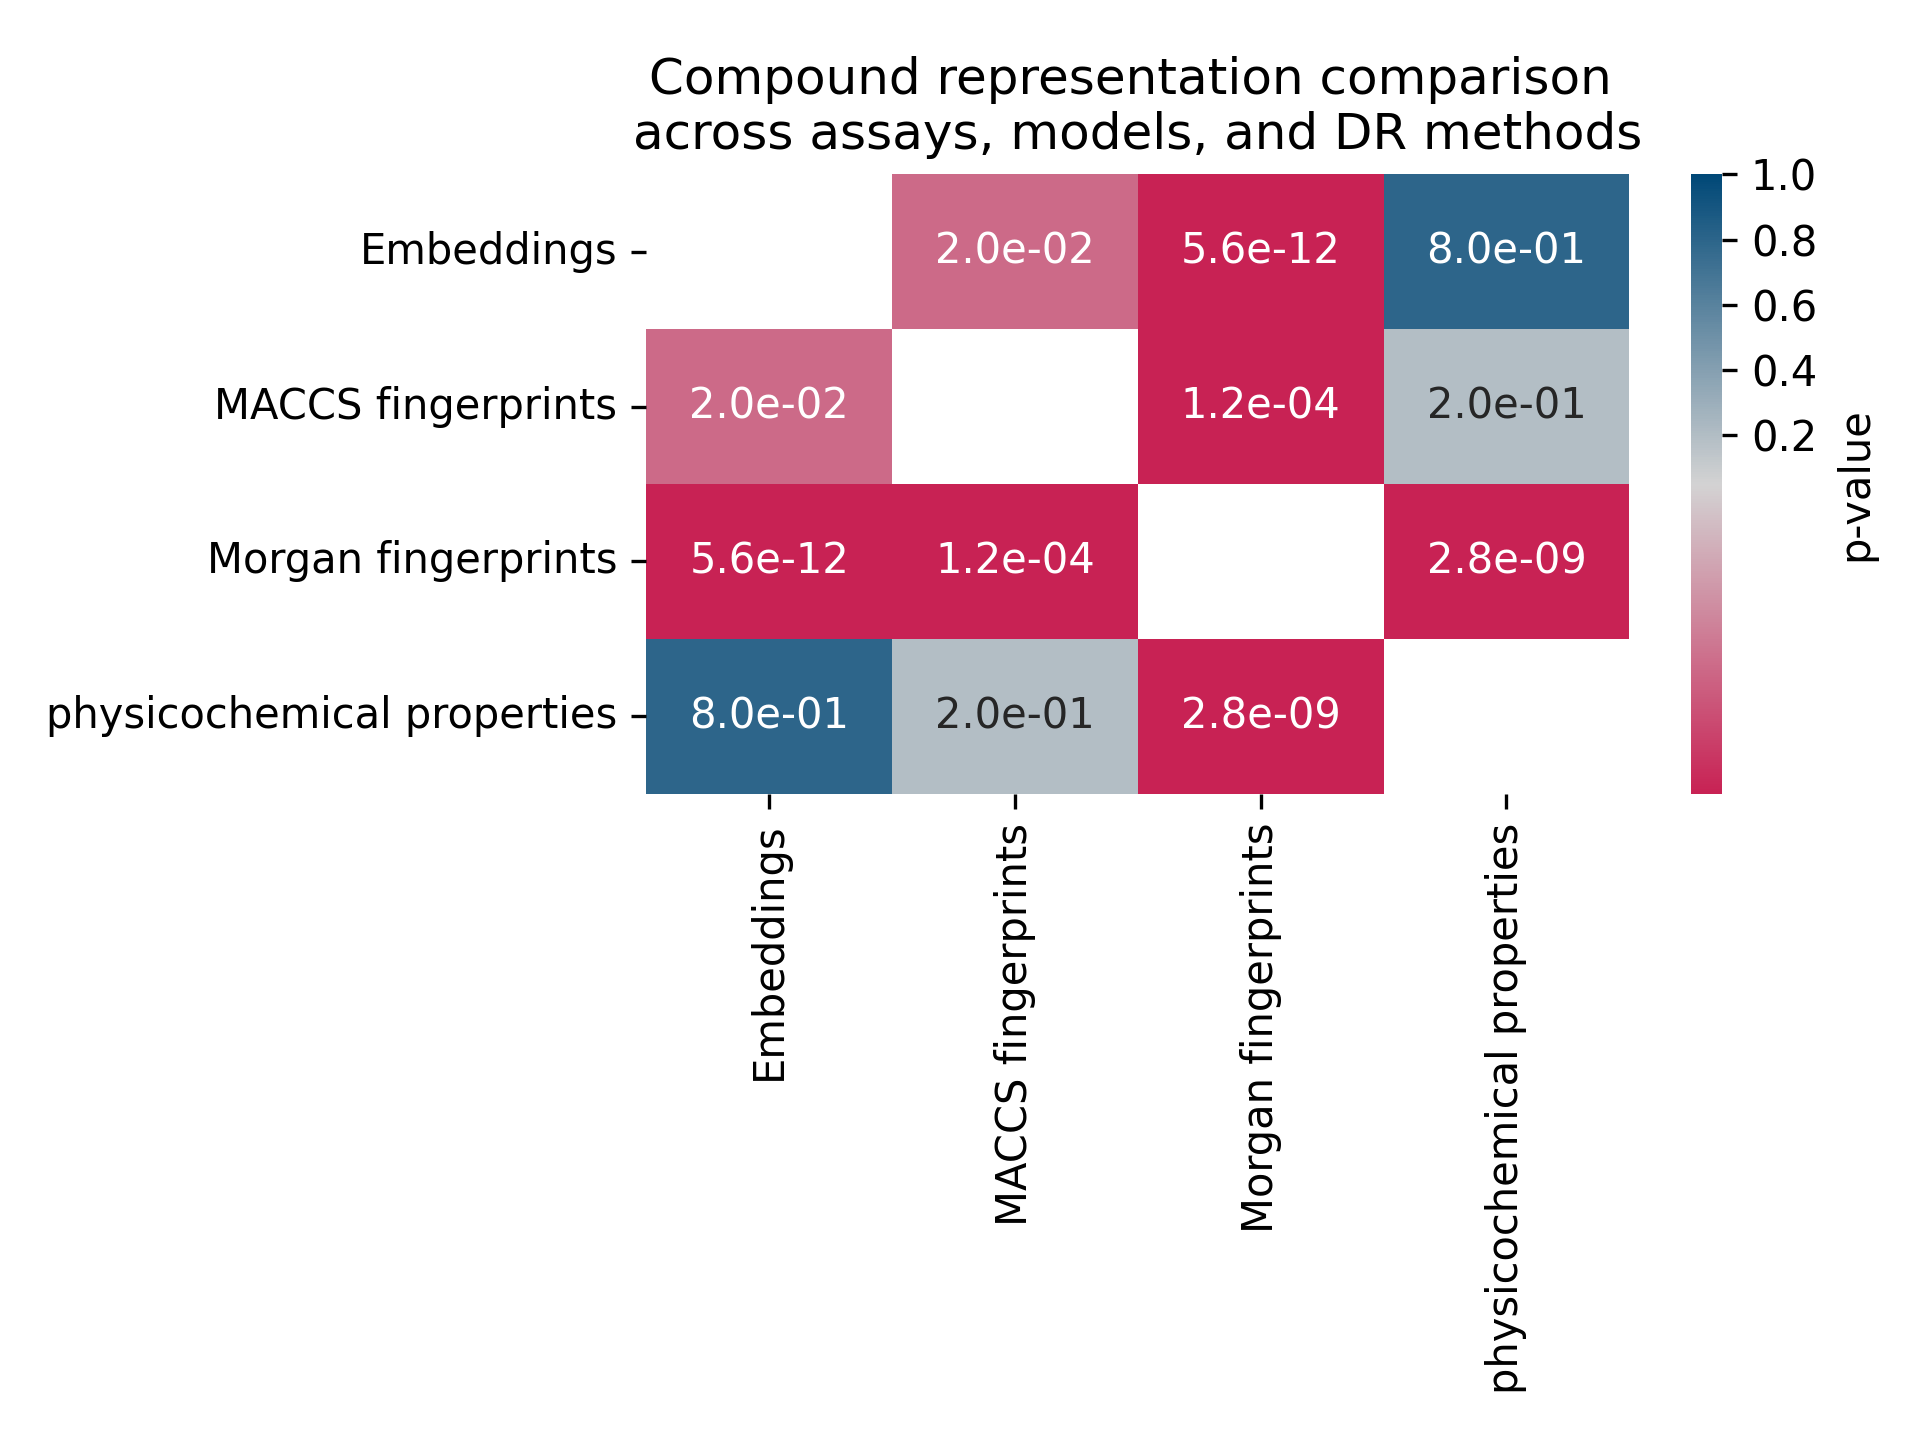
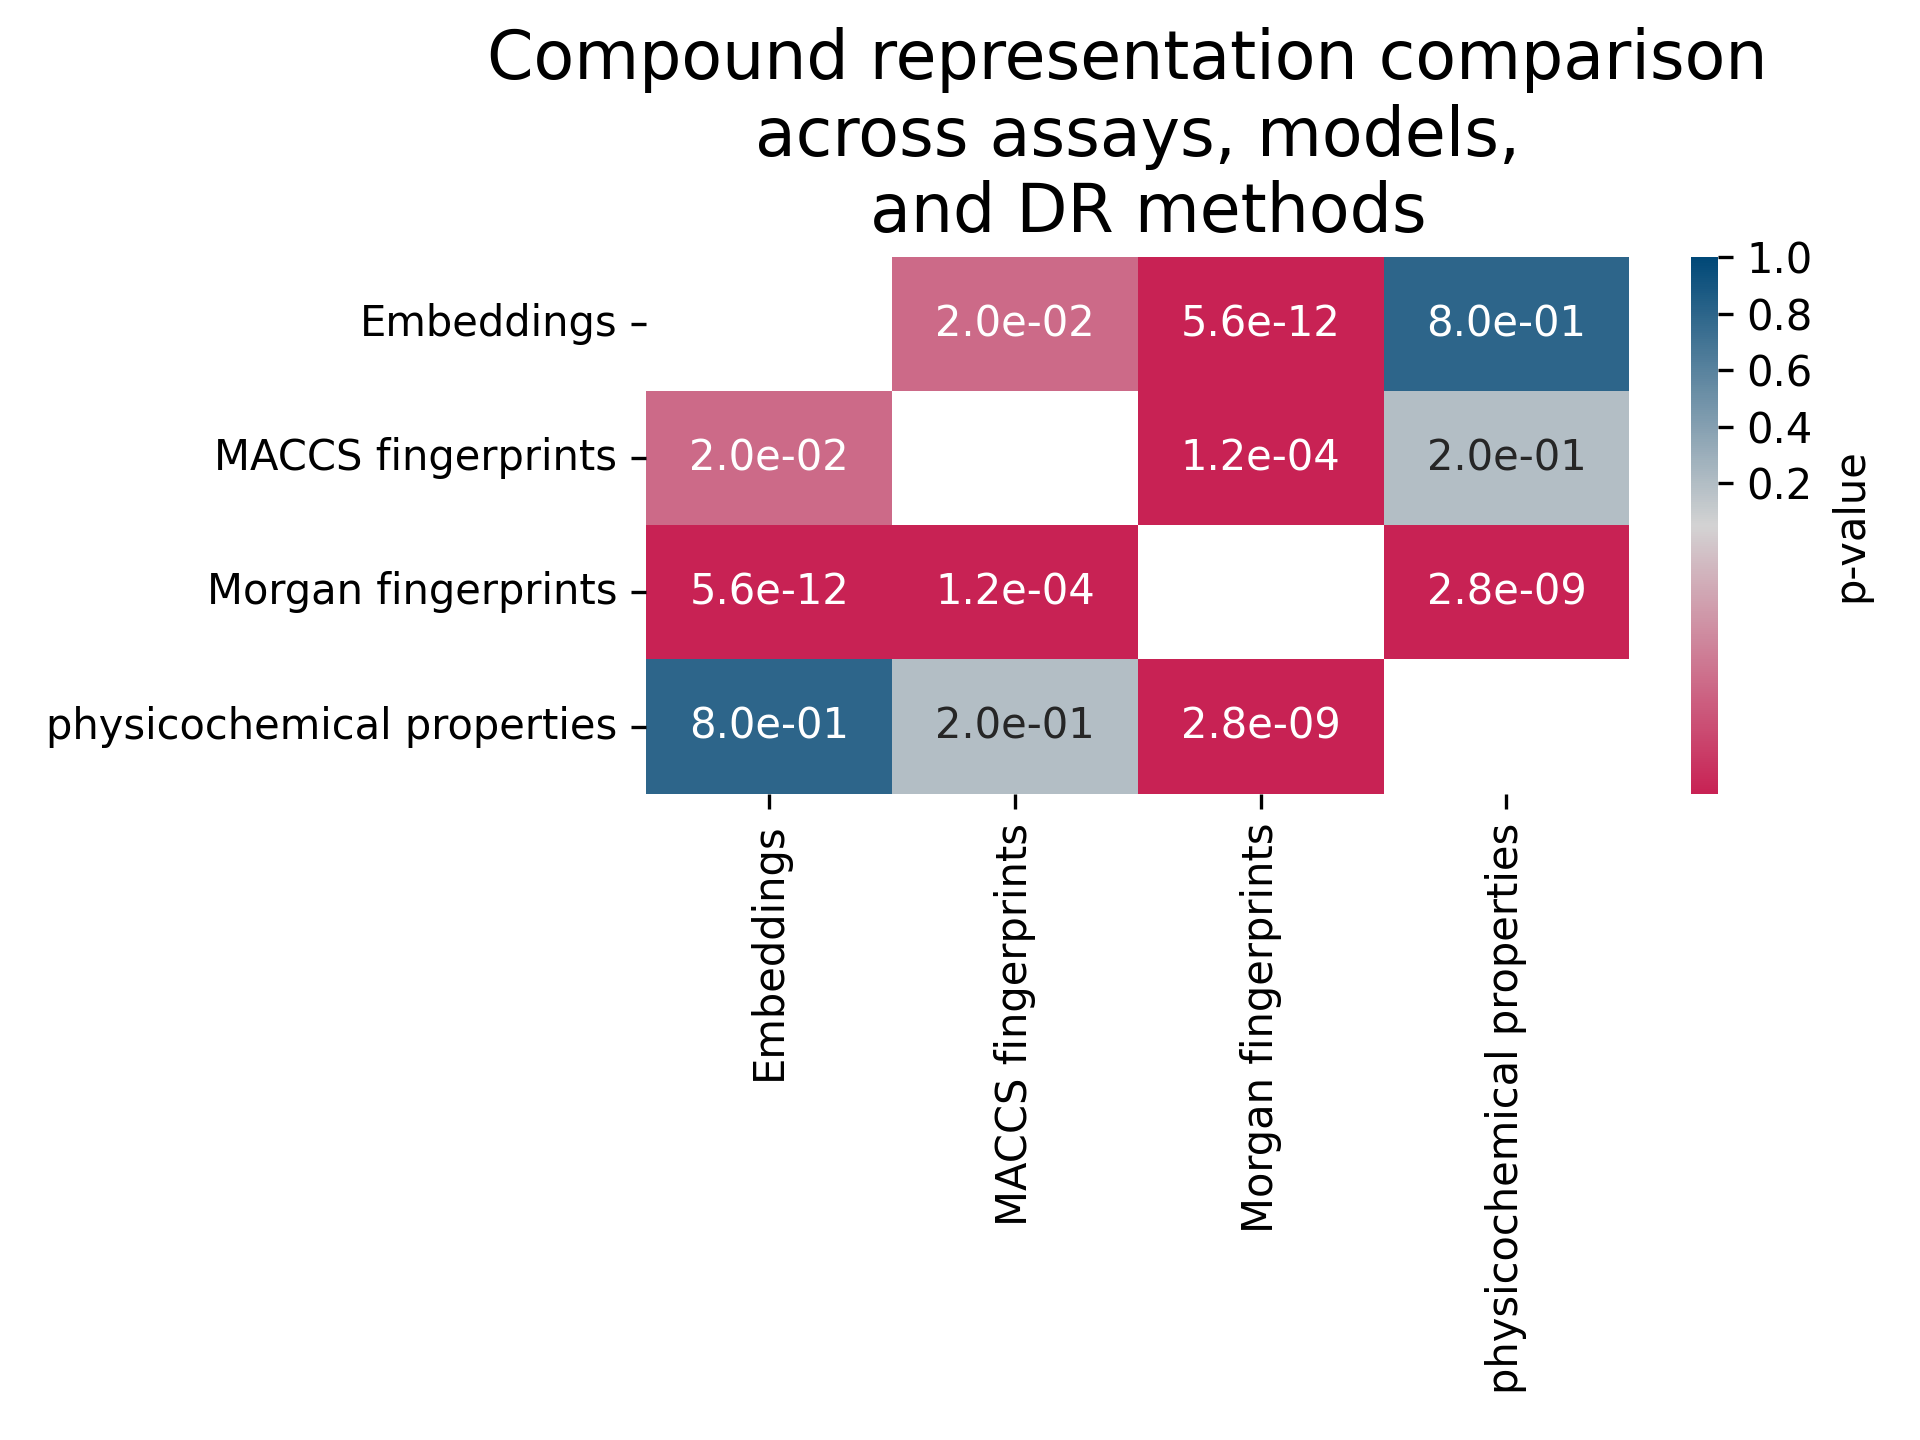
distance versus performance plot

Changed region(s): [[0.0938, 0.0312, 0.9688, 0.5312], [0.0312, 0.4688, 0.3125, 0.5312], [0.1875, 0.1562, 0.3438, 0.1875]]

diff --git a/evaluation/performance_versus_compound_similarity_nearest_neighbour.py b/evaluation/performance_versus_compound_similarity_nearest_neighbour.py
@@ -1,0 +1,107 @@
+import pandas as pd
+import os
+import numpy as np
+from sklearn.metrics import silhouette_score, pairwise_distances
+import matplotlib.pyplot as plt
+import seaborn as sns
+#from scipy.spatial.distance import rogerstanimoto
+import warnings
+warnings.filterwarnings(action='ignore')
+
+def sim_to_nearest_neighbour(train_df, test_df):
+    X_train = train_df.to_numpy(dtype=np.uint8)
+    X_test = test_df.to_numpy(dtype=np.uint8)
+
+    # Number of bits set in each training fingerprint
+    train_counts = X_train.sum(axis=1)
+
+    nearest_similarity = np.empty(X_test.shape[0])
+
+    for i, test_fp in enumerate(X_test):
+        # Intersection counts
+        intersection = X_train @ test_fp
+
+        # Union counts
+        union = train_counts + test_fp.sum() - intersection
+
+        # Tanimoto similarities
+        similarity = intersection / union
+
+        nearest_similarity[i] = similarity.max()
+    return np.mean(nearest_similarity)
+
+
+def main():
+    assays_with_best_performances = pd.read_csv('assays_with_best_performance.csv', sep = '\t')
+    print(assays_with_best_performances)
+    morgan_fingerprints = pd.read_csv('../model_inputs/morgan.csv', sep = '\t', index_col = 0)
+    assays_with_best_performances['average nn similarity'] = [None for _ in range(len(assays_with_best_performances))]
+    for assay_name in assays_with_best_performances["assay"].unique():
+        
+        subfolders = ['steroidal', 'androgens', 'estrogens', 'glucocorticoids', 'progestagens']
+        
+        for subfolder in subfolders:
+            input_directory = f'../model_inputs/{subfolder}/'
+            content = os.listdir(input_directory)
+            if assay_name in content:
+                sim = []
+                for fold in range(5):
+                    with open(f'../model_inputs/{subfolder}/{assay_name}/fold{fold}/train.txt', 'r') as train_file:
+                        train_compounds = train_file.read().splitlines()
+                    with open(f'../model_inputs/{subfolder}/{assay_name}/fold{fold}/test.txt', 'r') as test_file:
+                        test_compounds = test_file.read().splitlines()
+                    X = morgan_fingerprints.loc[np.concatenate([train_compounds, test_compounds]), :]
+                    
+                    
+                    similarity = sim_to_nearest_neighbour(train_df=X.loc[train_compounds, :], test_df=X.loc[test_compounds,:])
+                    sim.append(similarity)
+                average_sims = np.average(sim)
+
+                print(f'{assay_name}: {average_sims}')
+                assays_with_best_performances.loc[assays_with_best_performances['assay'] == assay_name, 'average nn similarity'] = average_sims
+    assays_with_best_performances.to_csv('assays_average_nn_distance.csv', sep = '\t', index = False)
+
+    plt.figure(figsize=(7, 6))
+    
+    sns.scatterplot(
+        data=assays_with_best_performances,
+        x="average nn similarity",
+        y="mcc_avg",
+        s=70,
+        color="red",
+        edgecolor="black"
+    )
+    
+    # regression line
+    sns.regplot(
+        data=assays_with_best_performances,
+        x="average nn similarity",
+        ci = None,
+        y="mcc_avg",
+        scatter=False,
+        color="blue",
+        line_kws={"linewidth": 2}
+    )
+    
+    # correlation
+    corr = assays_with_best_performances["average nn similarity"].corr(assays_with_best_performances["mcc_avg"])
+    plt.text(
+        0.05, 0.95,
+        f"r = {corr:.2f}",
+        transform=plt.gca().transAxes,
+        fontsize=11,
+        verticalalignment="top"
+    )
+    
+    plt.xlabel("Average Similarity to Closest Train Fold Compound", fontsize=13)
+    plt.ylabel("Best MCC (Fisher-averaged)", fontsize=13)
+    plt.title("Best performance vs average similarity", fontsize=15)
+    
+    plt.grid(alpha=0.3)
+    plt.tight_layout()
+    plt.show()
+    plt.savefig(f'../plotting_results/performance_vs_train_similarity.png')
+    
+    
+if __name__=='__main__':
+    main()

diff --git a/evaluation/performance_versus_compound_similarity.py b/evaluation/performance_versus_compound_similarity.py
@@ -9,9 +9,9 @@ import warnings
 warnings.filterwarnings(action='ignore')
 
 def main():
-    #assays_with_best_performances = pd.read_csv('assays_with_best_performance.csv', sep = '\t')
-    assays_with_best_performances = pd.read_csv('assays_average_silhouette_score.csv', sep = '\t')
-    '''morgan_fingerprints = pd.read_csv('../model_inputs/morgan.csv', sep = '\t', index_col = 0)
+    assays_with_best_performances = pd.read_csv('assays_with_best_performance.csv', sep = '\t')
+    #assays_with_best_performances = pd.read_csv('assays_average_silhouette_score.csv', sep = '\t')
+    morgan_fingerprints = pd.read_csv('../model_inputs/morgan.csv', sep = '\t', index_col = 0)
     assays_with_best_performances['average silhouette score'] = [None for _ in range(len(assays_with_best_performances))]
     assays_with_best_performances['average train-test distance'] = [None for _ in range(len(assays_with_best_performances))]
     for assay_name in assays_with_best_performances["assay"].unique():
@@ -27,7 +27,7 @@ def main():
                 for fold in range(5):
                     with open(f'../model_inputs/{subfolder}/{assay_name}/fold{fold}/train.txt', 'r') as train_file:
                         train_compounds = train_file.read().splitlines()
-                    with open(f'../model_inputs/{subfolder}/{assay_name}/fold{fold}/train.txt', 'r') as test_file:
+                    with open(f'../model_inputs/{subfolder}/{assay_name}/fold{fold}/test.txt', 'r') as test_file:
                         test_compounds = test_file.read().splitlines()
                     X = morgan_fingerprints.loc[np.concatenate([train_compounds, test_compounds]), :]
                     labels = ['train' for _ in range(len(train_compounds))]
@@ -43,7 +43,7 @@ def main():
                 assays_with_best_performances.loc[assays_with_best_performances['assay'] == assay_name, 'average silhouette score'] = average_silhouette_score
                 assays_with_best_performances.loc[assays_with_best_performances['assay'] == assay_name, 'average train-test distance'] = average_distance
     assays_with_best_performances.to_csv('assays_average_silhouette_score.csv', sep = '\t', index = False)
- '''   
+   
     plt.figure(figsize=(7, 6))
     
     sns.scatterplot(

diff --git a/evaluation/generate_representation_comparison_across_and_per_model.py b/evaluation/generate_representation_comparison_across_and_per_model.py
@@ -14,8 +14,8 @@ custom_palette = {
     "maccs": "#004877",
     "morgan": "#000000",
 }
-
-
+title_font_size = 16
+label_font_size = 14
 # Fisher Z-transformation
 def fisher_z(r):
     return np.arctanh(np.clip(r, -0.999999, 0.999999))  # avoid ±1
@@ -90,7 +90,8 @@ def cd_plot_for_nemenyi(final_results, feature_name_map, output_dir, model=None)
     )
 
     plt.title(
-        f"Compound representation comparison \nacross assays, models, and DR methods")
+        f"Compound representation comparison \nacross assays, models,\n and DR methods", fontsize= title_font_size
+)
     plt.tight_layout()
     if model is None:
         plt.savefig(f'{output_dir}/nemenyi_pval_heatmap_comparing_feature_types.png',
@@ -113,10 +114,11 @@ def cd_plot_for_nemenyi(final_results, feature_name_map, output_dir, model=None)
         alpha=0.05,
         label_fmt_left="{label}\navg. rank: {rank:.2f}",
         label_fmt_right="{label}\navg. rank: {rank:.2f}",
-        color_palette=color_palette
+        color_palette=color_palette,
+        label_props={"fontsize": label_font_size}
     )
     plt.title(
-        f"Critical difference\nrepresentation comparison across assays, models, and DR methods")
+        f"Critical difference\nrepresentation comparison across assays, \nmodels, and DR methods", fontsize = title_font_size)
     plt.tight_layout()
     if model is None:
         plt.savefig(f'{output_dir}/critical_difference_plot_nemenyi_comparing_representations.png',
